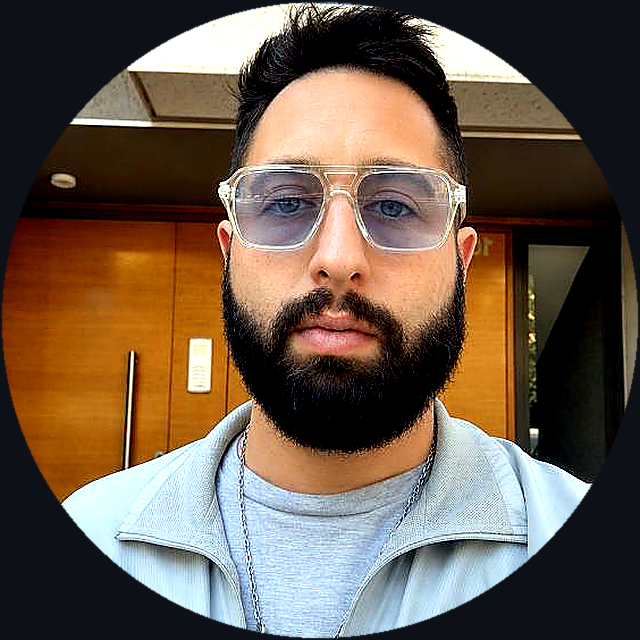
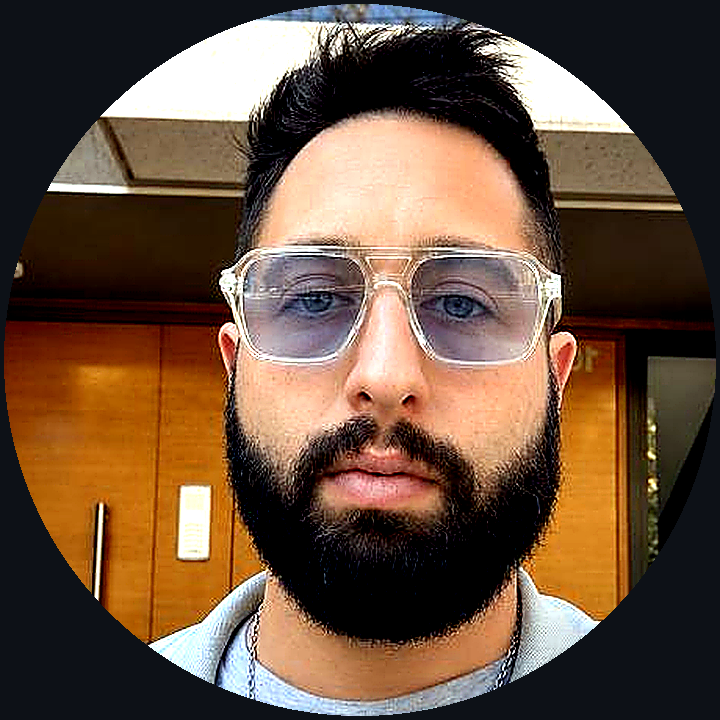
Tighten Fernando face crop for clearer ASCII conversion

diff --git a/README.md b/README.md
@@ -7,12 +7,12 @@
     <picture>
       <source
         media="(prefers-color-scheme: dark)"
-        srcset="https://neofetch-profile.vercel.app/api?username=sudopimp&theme=github-dark&config=https%3A%2F%2Fraw.githubusercontent.com%2Fsudopimp%2Fsudopimp%2Fmain%2Fneofetch.v3.json&v=4"
+        srcset="https://neofetch-profile.vercel.app/api?username=sudopimp&theme=github-dark&config=https%3A%2F%2Fraw.githubusercontent.com%2Fsudopimp%2Fsudopimp%2Fmain%2Fneofetch.v4.json&v=5"
       />
       <img
         alt="sudopimp@github — ASCII neofetch"
         width="900"
-        src="https://neofetch-profile.vercel.app/api?username=sudopimp&theme=github-light&config=https%3A%2F%2Fraw.githubusercontent.com%2Fsudopimp%2Fsudopimp%2Fmain%2Fneofetch.v3.json&v=4"
+        src="https://neofetch-profile.vercel.app/api?username=sudopimp&theme=github-light&config=https%3A%2F%2Fraw.githubusercontent.com%2Fsudopimp%2Fsudopimp%2Fmain%2Fneofetch.v4.json&v=5"
       />
     </picture>
   </a>
